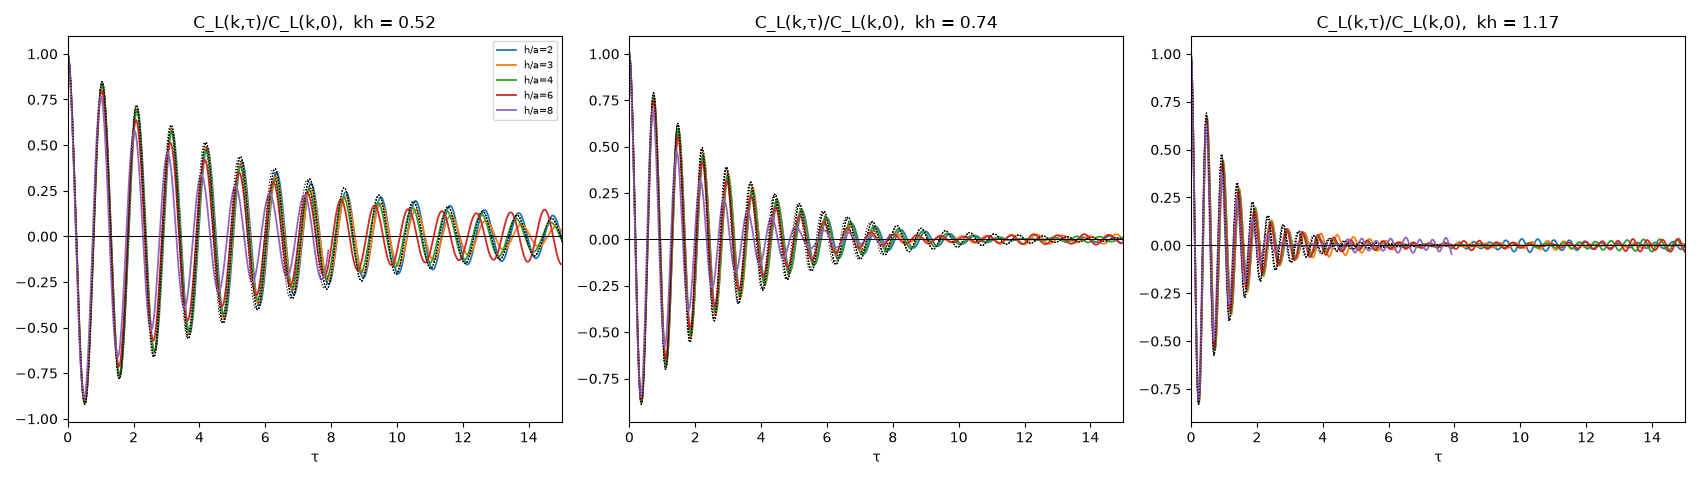
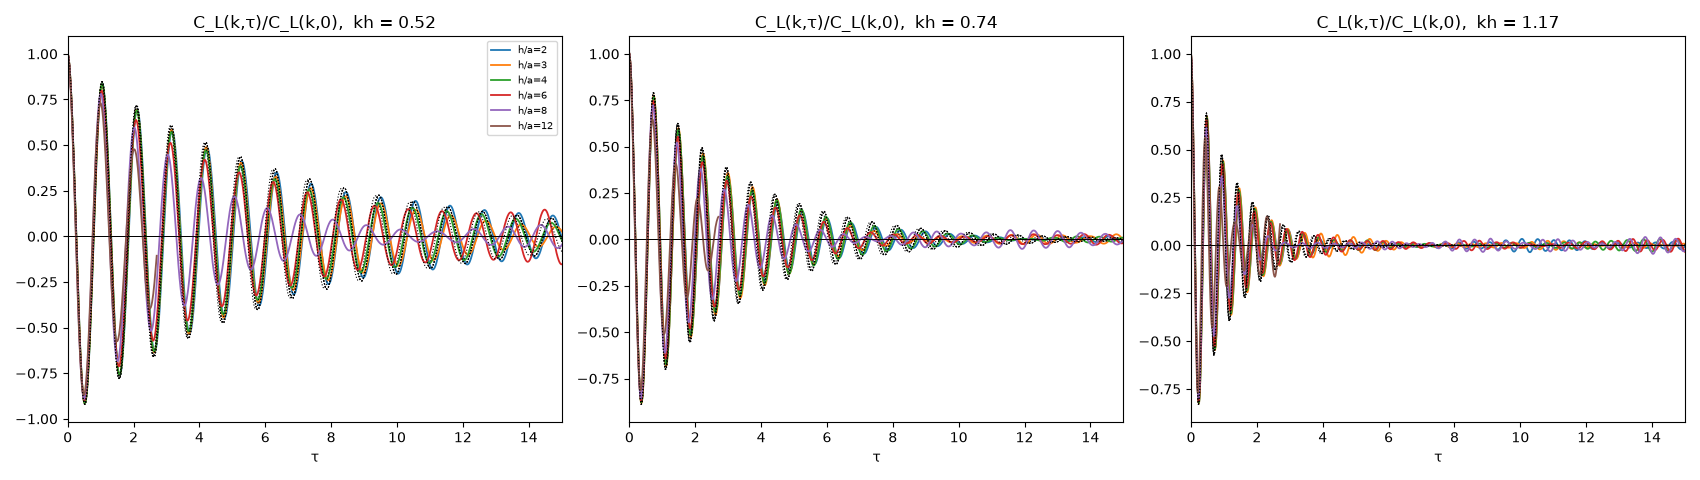
continuum_limit.tex: stage 2 (s_a = 34) and the later stages so far — nothing breaks down to s_a = 4 with the chosen Δt; KE above the exact one-particle value, not a step error; damping keeps rising with h/a

diff --git a/docs/continuum_limit.tex b/docs/continuum_limit.tex
@@ -306,6 +306,38 @@ the self-diffusion against $s_a$ with the hydrodynamic estimate.}
 \label{fig:clwalk}
 \end{figure}
 
-(Stages 2--5 are added as they finish.)
+\paragraph{Stage 2: $s_a=34$} ($h/a=8$, job 61113602, 8 runs, complete), with the later stages so far
+($h/a=12$ to $t=8$, $16$ to $t=2.2$, $23$ to $t=0.3$; each at its own $\Delta t$, see the scan; ``$\Delta t/2$''
+is half of that):
+\begin{center}
+\begin{tabular}{rrrcccccc}
+\hline
+$h/a$ & $s_a$ & $t$ & KE/eq & exact & $\Delta H/H$ & acc.\ residual & $|v|\ge1$ (resid.) & $2\gamma/\nu k^2$ \\ \hline
+8 & 34 & 100 & 0.943 & 0.893 & $+2.7\times10^{-3}$ & 0.729 & $2.1\times10^{-4}$ & 1.47 \\
+8, $\Delta t/2$ & 34 & 50 & 0.949 & 0.893 & $+5.6\times10^{-4}$ & 0.805 & $4.7\times10^{-4}$ & --- \\
+12 & 15 & 8 & 0.870 & 0.779 & $+7.2\times10^{-4}$ & 0.752 & $2.6\times10^{-2}$ & (2.2) \\
+12, $\Delta t/2$ & 15 & 4 & 0.876 & 0.779 & $+4.0\times10^{-4}$ & 0.823 & $1.6\times10^{-2}$ & --- \\
+16 & 8.5 & 2.2 & 0.752 & 0.654 & $+1.6\times10^{-3}$ & 0.736 & $9.5\times10^{-2}$ & --- \\
+16, $\Delta t/2$ & 8.5 & 1.2 & 0.760 & 0.654 & $+9.3\times10^{-4}$ & 0.810 & $6.3\times10^{-2}$ & --- \\
+23 & 4.1 & 0.3 & 0.508 & 0.463 & $+2.4\times10^{-3}$ & 0.671 & $0.24$ & --- \\
+\hline
+\end{tabular}
+\end{center}
+\begin{enumerate}
+\item \emph{Nothing breaks down to $s_a=4$}: with the time step chosen by the criterion the residual
+  acceptance stays at $0.67$--$0.75$, although a quarter of the residual proposals at $s_a=4$ are
+  rejected for $|v|\ge1$.
+\item \emph{The kinetic energy stays above the exact one-particle value, more so as $s_a$ falls}:
+  by $0.4$, $1.5$, $3.3$, $5.6$, $12$, $15\%$ at $s_a=541$, $135$, $60$, $34$, $15$, $8.5$.  Halving $\Delta t$ does not
+  change it, so it is not a step error; the energy drift is (it falls by $2$--$5$ with $\Delta t/2$).  A
+  candidate: the one-particle calculation holds the volume fixed, while in the n-scheme the volumes
+  fluctuate (by $3\%$ at $s_a=60$, more below), which widens the momentum distribution.  Open.
+\item \emph{The transverse damping keeps rising}: $1.47$ at $h/a=8$; the short run at $12$ gives about
+  $2.2$ (only $t=8$, so a rough number).  It stays below $1+D_{\rm self}/\nu$ ($2.5$, $4.2$), but grows with
+  it.  The self-diffusion keeps its $(h/a)^2$ growth: $3.3\times10^{-3}$, $7.0\times10^{-3}$, $1.1\times10^{-2}$,
+  $1.5\times10^{-2}$ at $h/a=8$, $12$, $16$, $23$.
+\end{enumerate}
+
+(Stages 3--5 are completed in the next update.)
 
 \end{document}
